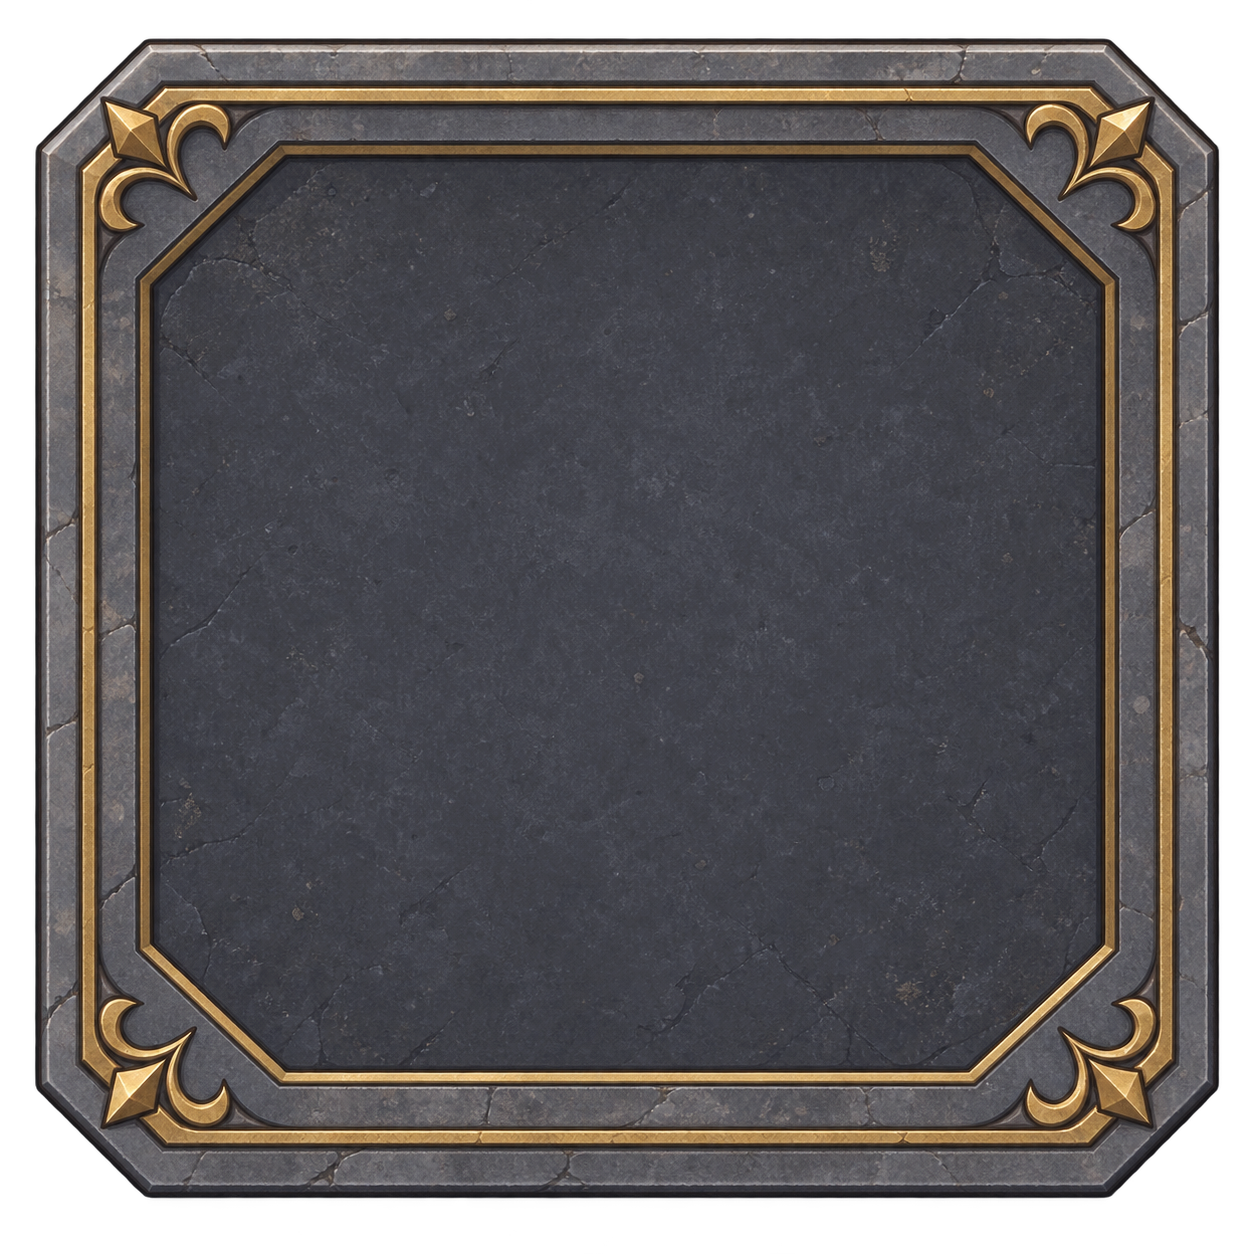
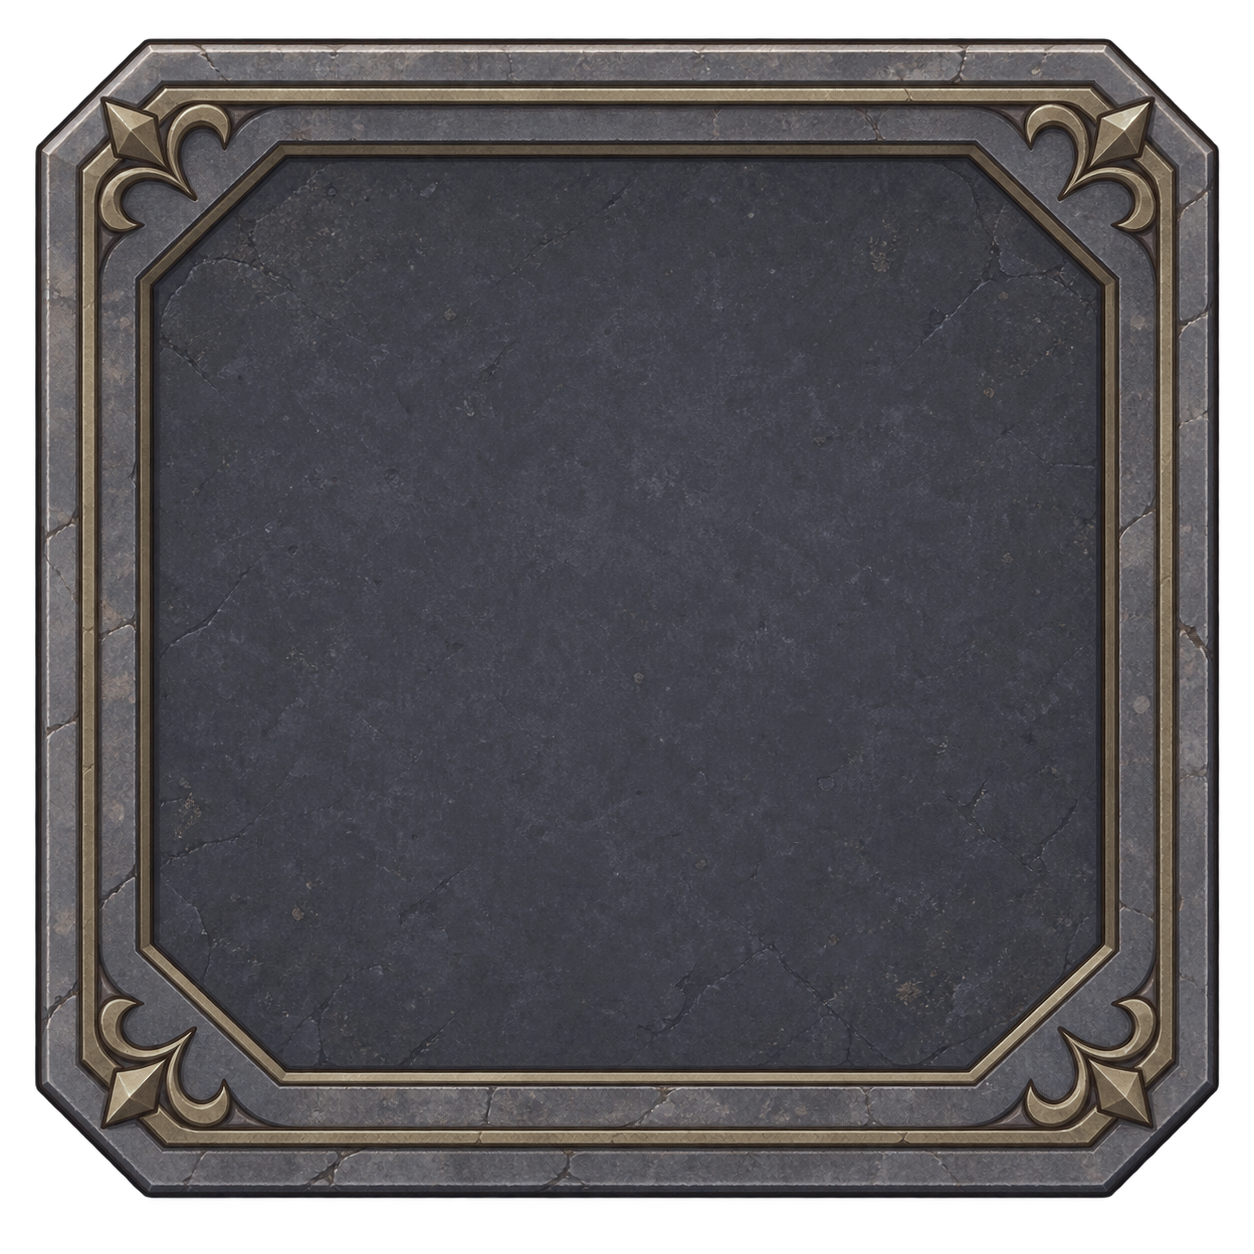
유닛 별 위치 조정

diff --git a/Docs/tools/slottile_tone.py b/Docs/tools/slottile_tone.py
@@ -1,0 +1,39 @@
+# SlotTile.png 금색 장식 톤 다운.
+# 빈 슬롯 타일 15칸을 5x3으로 깔면 밝은 금색 필리그리가 60개 흩뿌려져 보드가 시끄럽다
+# (HISTORY 2026-08-30 미해결 ②). 금색 픽셀만 채도·명도를 낮춰 차분하게 만든다.
+# 돌 판·테두리 회색은 건드리지 않는다.
+#
+# 입력: 임포트된 SlotTile.png (원본은 git에 있으므로 되돌리기 쉬움)
+# 출력: 같은 경로에 덮어쓰기
+#
+# usage: python Docs/tools/slottile_tone.py [in.png] [out.png]
+import sys
+import numpy as np
+from PIL import Image
+
+DESAT = 0.55   # 금색을 자기 밝기 쪽으로 이만큼 당겨 채도를 뺀다
+DARKEN = 0.82  # 그 뒤 이만큼 어둡게
+
+src = sys.argv[1] if len(sys.argv) > 1 else "Assets/_Project/Art/Stage/SlotTile.png"
+dst = sys.argv[2] if len(sys.argv) > 2 else src
+
+im = Image.open(src).convert("RGBA")
+a = np.asarray(im).astype(np.float32)
+rgb, alpha = a[:, :, :3], a[:, :, 3]
+r, g, b = rgb[:, :, 0], rgb[:, :, 1], rgb[:, :, 2]
+
+# 금색 가중치: 따뜻하고(r-b) 불투명한 픽셀일수록 1에 가깝게, 경계가 딱딱하지 않도록 완만하게
+warm = np.clip((r - b - 15.0) / 40.0, 0.0, 1.0)
+weight = warm * np.clip(alpha / 255.0, 0.0, 1.0)
+weight = weight[:, :, None]
+
+lum = (0.299 * r + 0.587 * g + 0.114 * b)[:, :, None]
+toned = ((rgb * (1.0 - DESAT) + lum * DESAT) * DARKEN)
+
+out = rgb * (1.0 - weight) + toned * weight
+a[:, :, :3] = np.clip(out, 0.0, 255.0)
+
+Image.fromarray(a.astype(np.uint8), "RGBA").save(dst)
+
+gold_px = int((weight[:, :, 0] > 0.3).sum())
+print("toned %d gold-ish px -> %s" % (gold_px, dst))

diff --git a/Assets/_Project/Scripts/UI/UnitSlotView.cs b/Assets/_Project/Scripts/UI/UnitSlotView.cs
@@ -21,6 +21,9 @@ namespace PokerDefense.UI
         const float ArtScale = 0.85f;
         const float ArtBottomY = -0.46f;
 
+        // 유닛의 별 표시 위치 오프셋
+        const float StarTopY = 0.40f;
+
         // 폭이 넓은 유닛이 슬롯 타일을 넘지 않도록 이 폭에 맞춰 기준 배율을 낮춤
         const float ArtMaxWidth = 0.9f;
 
@@ -69,6 +72,7 @@ namespace PokerDefense.UI
             starLabel.outlineWidth = 0.25f;
             // 유닛 아트(sortingOrder 3)에 가리지 않도록 더 위로 올림
             starLabel.sortingOrder = 6;
+            starLabel.transform.localPosition = new Vector3(0f, StarTopY, 0f);
             sharedMuzzleSprite = muzzle.sprite;
         }
 

diff --git a/Docs/HISTORY.md b/Docs/HISTORY.md
@@ -65,6 +65,7 @@
 | **플레이 모드에서 만든 오브젝트는 나가는 순간 사라진다** | 씬 편집 전 `Application.isPlaying` 확인. `SerializedObject`로 씬 저장 시 `This cannot be used during play mode` |
 | **라벨 넘침을 rect 폭으로 판단하면 틀림** | TMP는 자동 개행이라 넘치면 밖으로 안 나가고 두 줄이 되어 아래를 침범한다. `textBounds`는 개행 후 값이라 항상 rect 안. **`GetPreferredValues`로 재고 `textInfo.lineCount`가 1인지** |
 | 에디트 모드에서 뷰 `Show()` 미리보기 → 그대로 씬에 저장됨 | TMP 문자열·색이 직렬화된다. 찍어 본 뒤 `Show(null)`로 되돌리고 저장 |
+| **`TMP_Text.fontMaterial` getter가 인스턴스 머티리얼을 만든다** | 진단 스크립트에서 `.fontMaterial`을 읽기만 해도 그 TMP에 로컬 머티리얼이 붙고, 다음 `SaveScene`에 `m_fontMaterial`이 공유 머티리얼 링크를 끊은 채로 직렬화된다(라벨 여럿에 번져 씬 diff가 커진다). 읽기는 `.fontSharedMaterial`로. 이미 번졌으면 씬을 `git checkout` 후 의도한 변경만 다시 적용 |
 | **성급 배수는 공격력·공격속도에 동시에 곱해져 DPS가 제곱으로 커진다** | `{1, 1.6, 2.25}`면 DPS ×1 / ×2.56 / ×5.06. 배수를 만질 때는 항상 제곱해서 볼 것 |
 | **`spriteAlignment`는 `TextureImporter`에 없다** | `TextureImporterSettings`에 있다. MCP `manage_asset`으로 넘기면 성공 반환 후 조용히 무시(피벗이 Center로 남아 유닛이 슬롯에서 뜬다). `ReadTextureSettings`→수정→`SetTextureSettings`→`SaveAndReimport`, 메타 되읽어 `alignment: 7` 확인 |
 | 스프라이트 전환 전 텍스처 높이를 읽으면 NPOT 값 | 407×749인데 `tex.height`가 512. `textureType = Sprite` + `npotScale = None` 먼저 걸고 리임포트 후 다시 읽는다 |
@@ -98,6 +99,18 @@
 ---
 
 ## 이력
+
+### 2026-08-30 — 화면 상단 레이아웃 패스 1차 (DESIGN §7-4 일부)
+
+M11 5단계가 남긴 슬롯·트랙 시각 이슈 중 큰 지오메트리 변경 없이 되는 것만 처리. 카메라 리프레임은 안 함(밸런스 재검증 이후로 미룸).
+
+- **성급 배지 위치:** 캐릭터 정강이(로컬 y −0.345) → **머리 위(`StarTopY = 0.40`)**. `UnitSlotView.Awake`에서 `sortingOrder`와 같이 지정. 정강이에 겹치면 캐릭터 무늬처럼 읽혔다.
+- **슬롯 타일 금색 톤 다운:** `SlotTile.png`의 금색 픽셀만 채도(−55%)·명도(×0.82) 낮춤 — mean (177,141,89) → (145,131,110). 돌 판·회색은 안 건드림. `Docs/tools/slottile_tone.py` 신규(카드 툴과 같은 패턴, 원본은 git). 15칸 깔았을 때 금색이 시끄럽던 것 완화.
+- **상세 문구 이동:** `DetailPlate`·`PendingLabel`을 화면 top(anchoredPos y 862, 스크린 y≈1822 — 트랙 상단 밴드 + HUD와 겹침)에서 **그리드 바로 아래(y 220, 스크린 y≈1180)**로. RectTransform 2개만.
+- **트랙 명도:** `TrackLoop` SpriteRenderer 색 흰색 → (0.78, 0.78, 0.80). 돌 밴드가 살짝 물러나 위에 얹히는 라벨 대비가 나아지고 보드가 조금 더 분리돼 보인다.
+- **`TrackMargin 0.9`는 안 건드렸다** — 가운데 칸이 트랙에서 정확히 2.4, 최단 사거리 2.5가 여기서 나온다(반복 함정 "사거리는 자유롭게 못 내린다"). 줄이면 전 유닛 사거리 유효성이 바뀌어 밸런스 재검증 대상. "15칸이 링 안 작은 섬" 인상은 수용.
+- **미해결:** HUD(라이프·라운드)가 여전히 트랙 상단 밴드 위 — 실제 렌더(어두운 톤)에서 읽히는지 확인 필요, 안 되면 라벨에 아웃라인. 카메라 리프레임(보드를 화면에서 내려 상단 공간 확보 + 라벨 5그룹 재배치)은 밸런스 확정 후 §7-4 본 패스에서.
+- **검증:** 컴파일 0건, EditMode 219/219, 플레이 모드에서 8유닛 배치해 배지·톤·문구 위치 스크린샷 확인. 씬 diff 3줄(anchoredPos ×2, color ×1).
 
 ### 2026-08-30 — M11 5단계: 배경·트랙 아트 4장 + 동반 코드 완료 (M11 종료)
 

diff --git a/Docs/DESIGN.md b/Docs/DESIGN.md
@@ -359,7 +359,7 @@ public sealed class CombatContext          // 순수 C#. MonoBehaviour가 아니
    → **계수가 레버인 것은 맞지만 지금 만지지 않는다.** 다중 타격 이득은 **적 밀도에 비례해 커지는데 페널티는 평평하다** — 반경 2.2는 계수를 0.3까지 내려도 여전히 1위였다. 밀도를 정하는 것은 웨이브 데이터이고 그것을 §7-1에서 전면 재작성하기로 했으므로 **계수는 웨이브를 확정한 뒤 맞추는 것이 순서다.** 지금 0.6 → 0.4를 넣으면 Multi·Splash 7종의 실효 화력이 33% 깎여 M10 검증 밴드(라이프 3~10)가 깨지는데, 얻는 것은 20웨이브 중 하나에서의 1위다.
    → **갈린 축은 하나뿐이다.** Rapid↔Heavy는 건강하다 — 현실 ATK 규모에서 잔챙이 웨이브의 Rapid가 Heavy를 **3.9배**로 이기고 보스에서는 뒤집힌다(§10.1의 오버킬 낭비가 의도대로 작동한다). 문제는 **단일 대상 ↔ 다중 타격** 축 하나다.
 3. **라운드 전환에 간격이 없다** (M5부터). `Result` → 다음 `Draw`가 즉시라 전투 결과를 읽기 전에 다음 손패가 깔린다. 루프가 자동인 구간이라 어디에 멈춤을 넣을지가 §1의 전이 표를 건드린다.
-4. **화면 상단 레이아웃 정리 패스가 필요하다.** 유닛 상세 블록 둘째 줄이 트랙 위 끝(화면 y≈1803)을 15px 넘고, M11에서 트랙이 실제로 그려지며 안내 문구가 돌 밴드 위에 얹히는 것도 드러났다(`detailPlate`가 뜰 땐 가려짐). 더불어 트랙 여백(`TrackMargin` 0.9)이 커서 15칸이 넓은 돌 링 안의 작은 섬처럼 보인다. 화면에 빈 자리가 없어 상세 블록을 더 줄이지 못했다 — **슬롯 레이아웃·트랙 여백·상세 블록 위치를 한 번에 손봐야 한다.**
+4. **화면 상단 레이아웃 정리 패스.** 1차 대응(2026-08-30, [HISTORY.md](HISTORY.md)): 상세 문구를 그리드 아래로 내리고, 성급 배지를 머리 위로 올리고, 트랙 명도를 낮췄다. **남은 것:** HUD(라이프·라운드)가 아직 트랙 상단 밴드 위 — 라벨 아웃라인 or 카메라 리프레임. 트랙 여백(`TrackMargin` 0.9)이 커서 15칸이 돌 링 안 작은 섬처럼 보이는 것은 손대지 않았다(가운데 칸↔트랙 2.4가 최단 사거리 2.5의 근거라 밸런스 재검증 대상). **본 패스(카메라를 내려 상단 공간 확보 + 라벨 그룹 재배치 + 트랙 여백)는 §8 밸런스 재검증과 함께.**
 
 ### 닫은 것 (M10 실측) — 현재 수치의 근거
 
